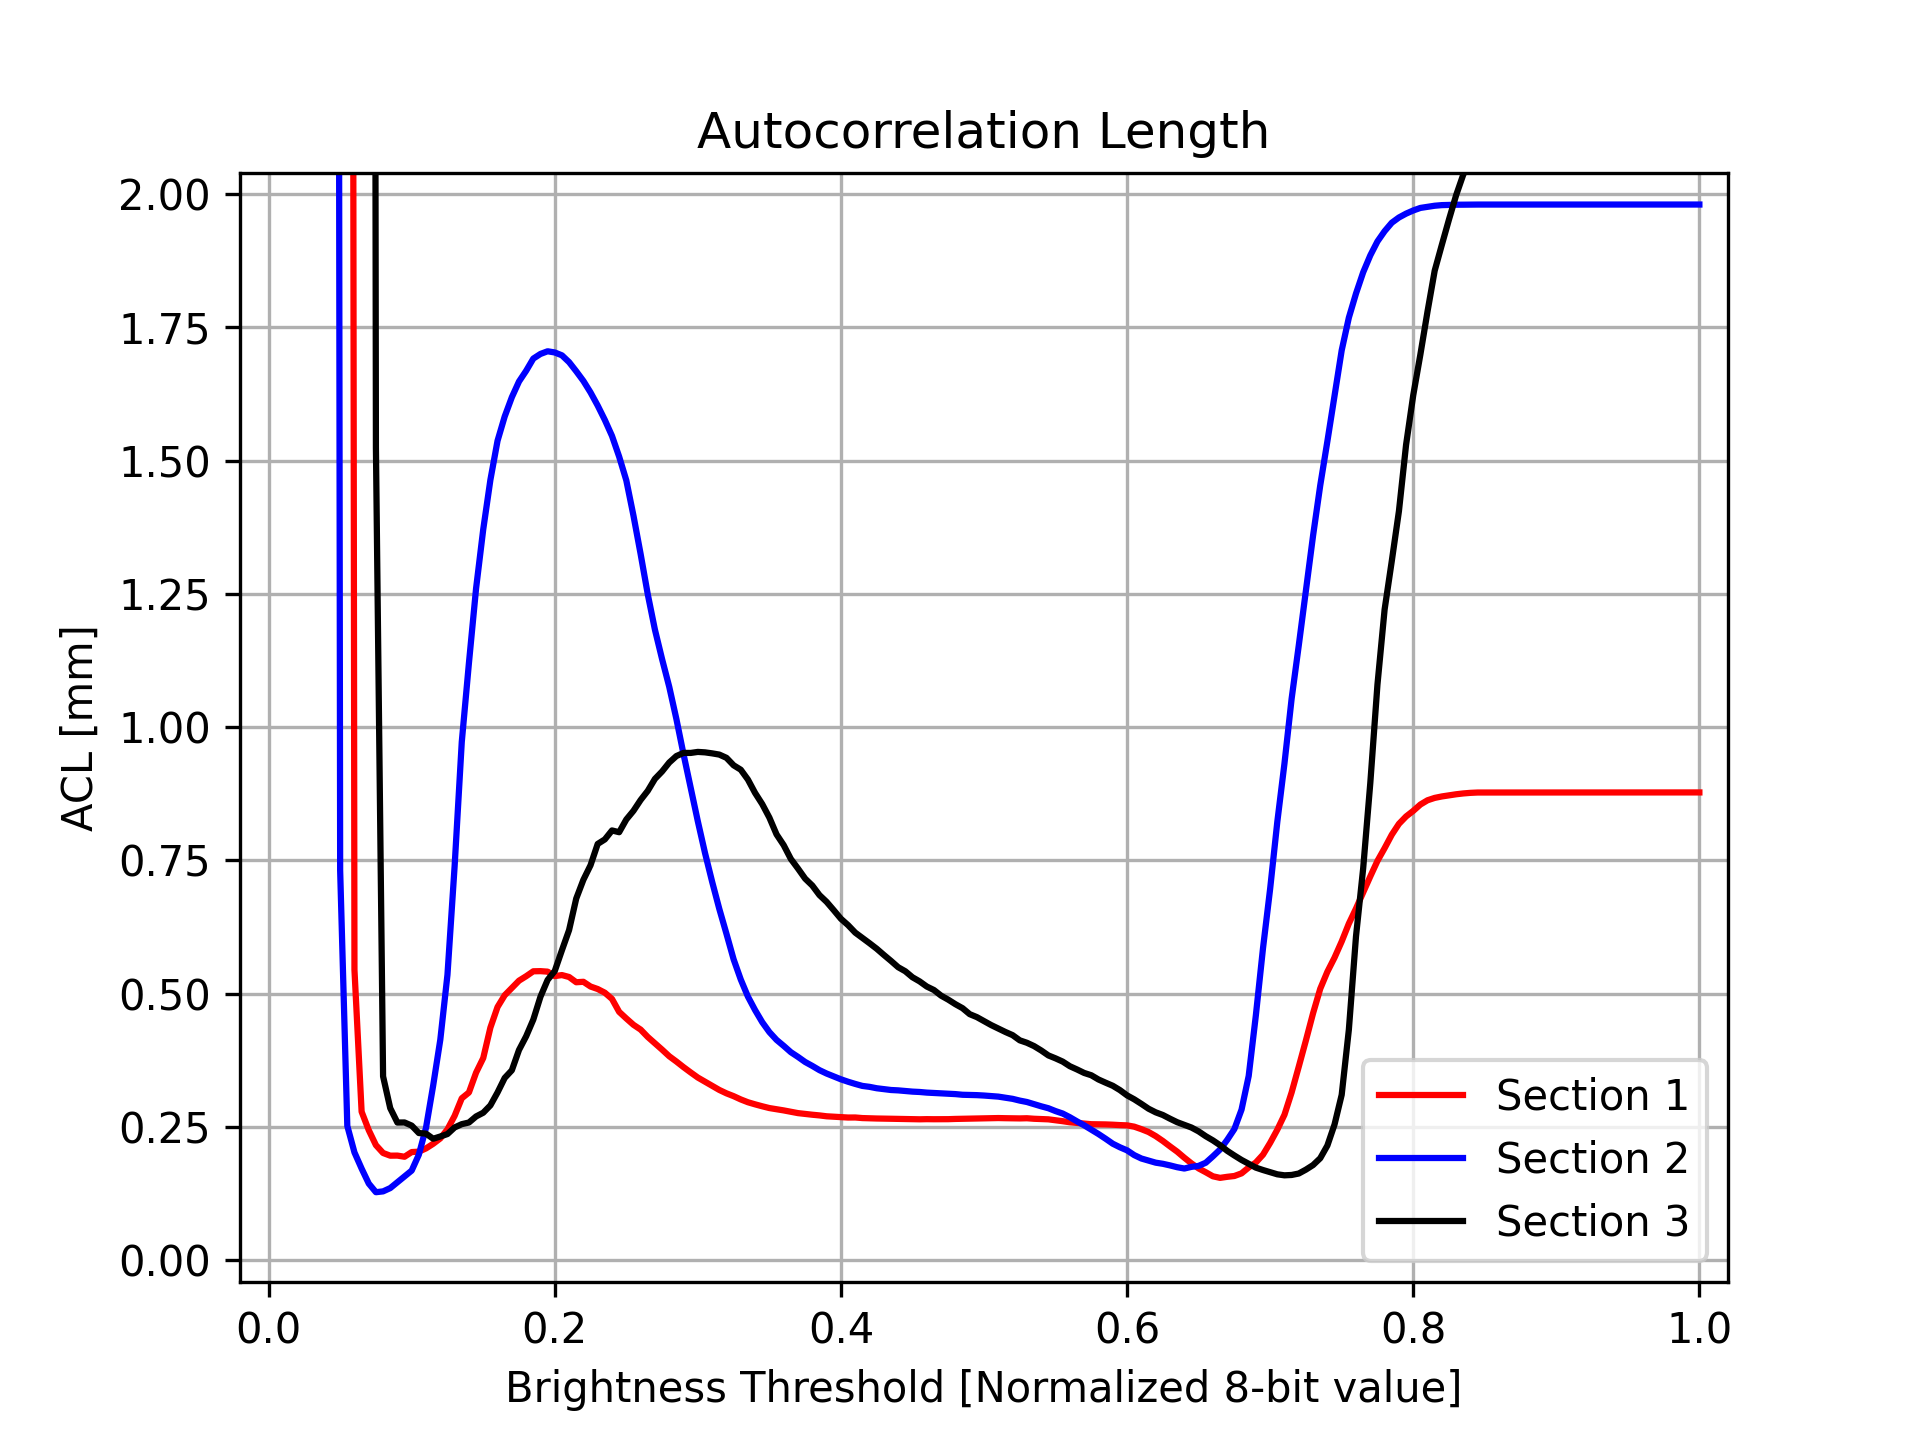
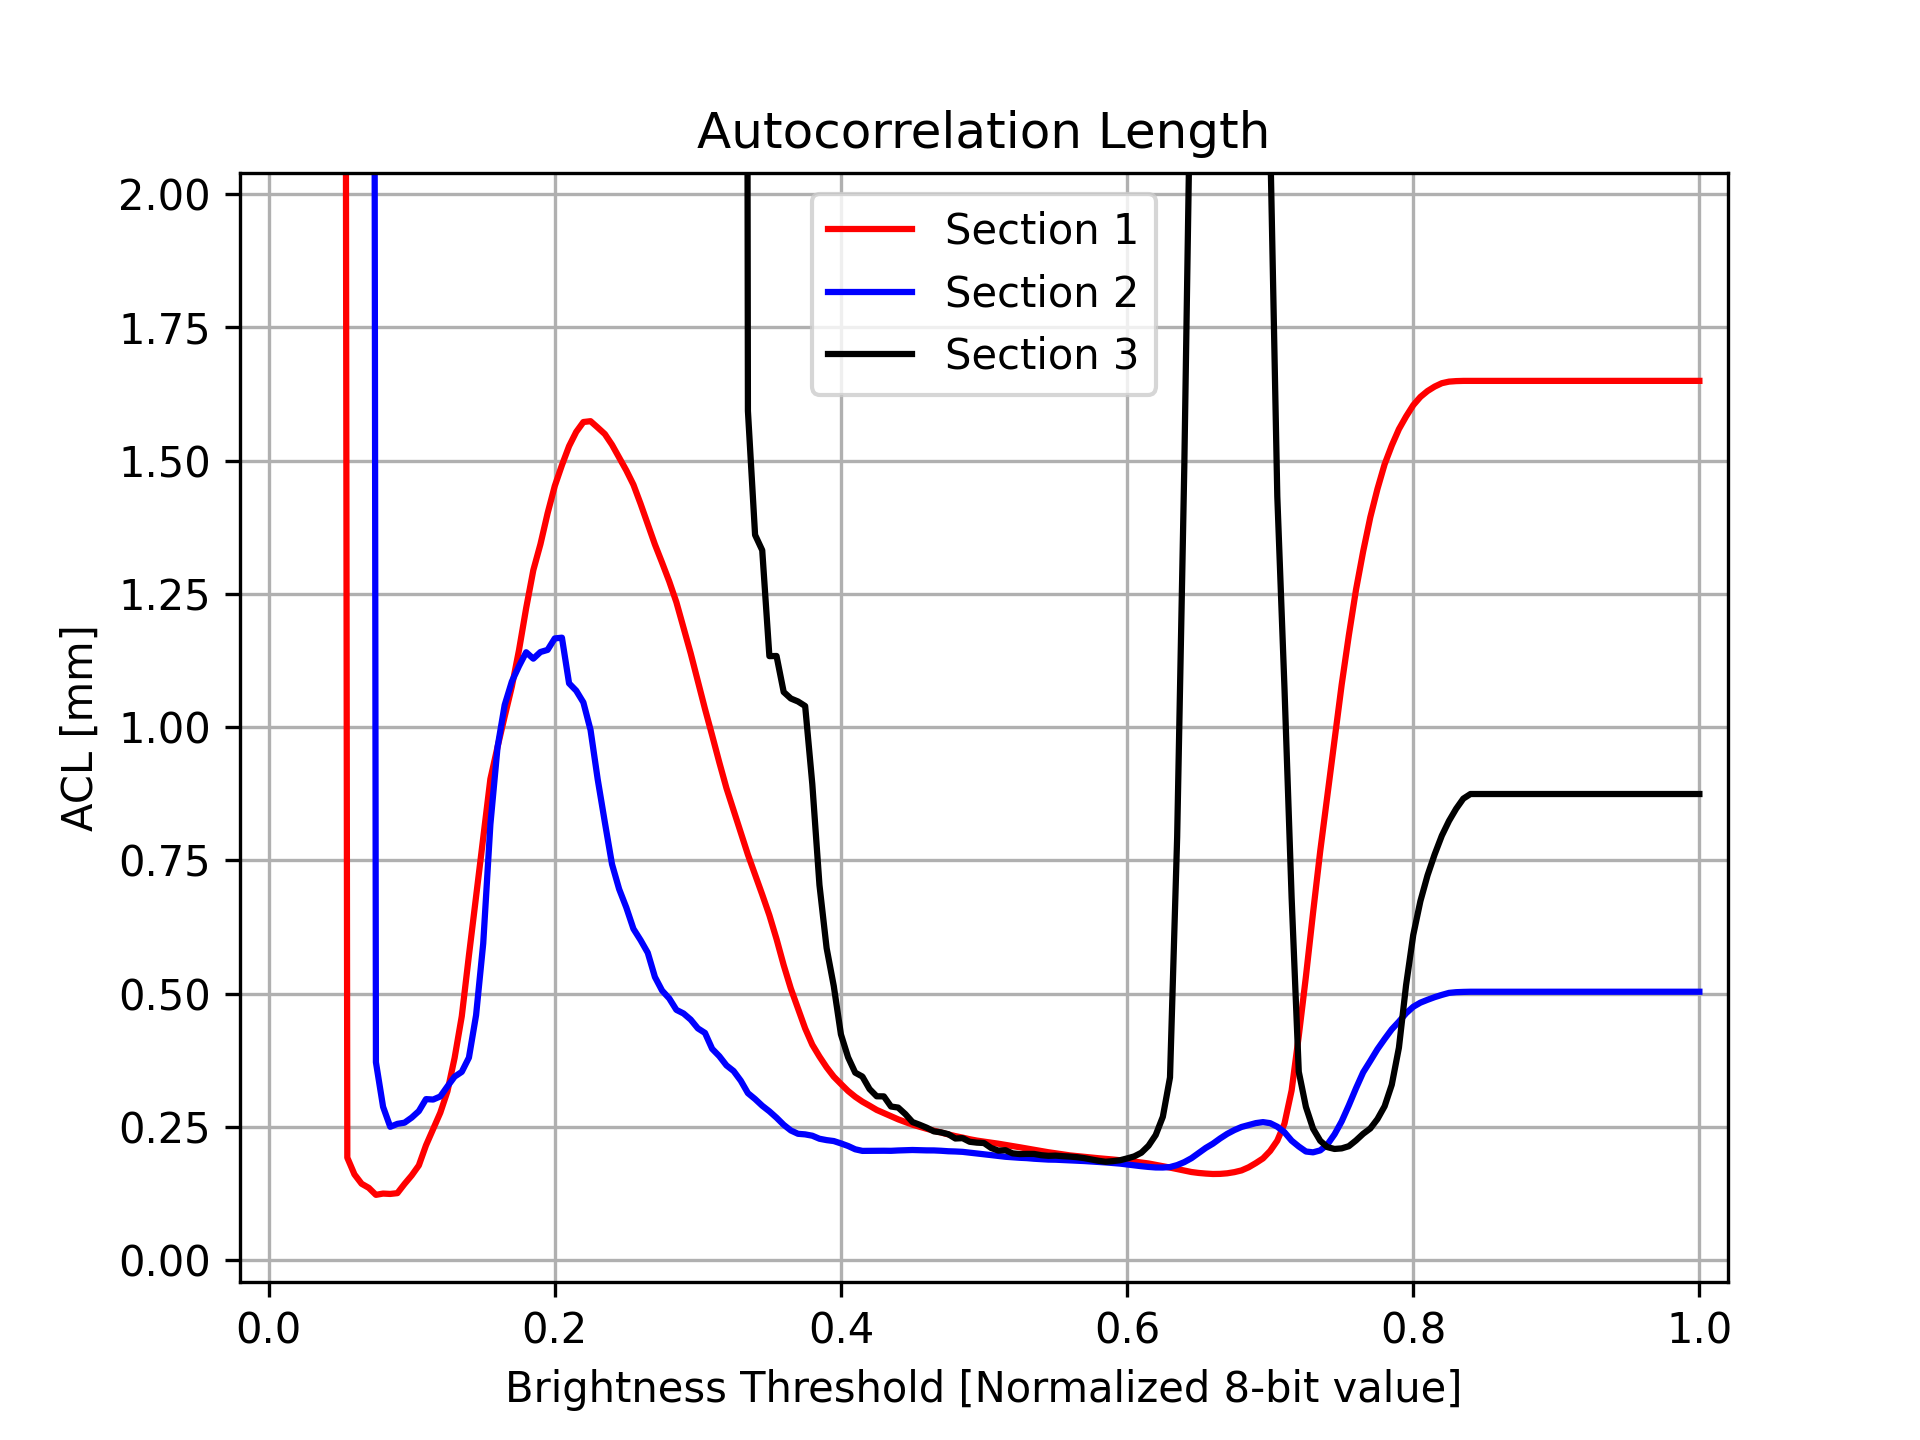
All images done!

diff --git a/plot_sigma.py b/plot_sigma.py
@@ -6,28 +6,28 @@ from clipBlur import clipBlur
 
 
 if __name__ == "__main__":
-    fname = "thin_slices/meltponds/meltpond_20200211/20200213_110428.jpg"
+    fname = "thin_slices/meltponds/meltpond_kuka/meltpond_kuka_9cm_bottom.jpg"
     fTypes = np.array(['Empirical','Exponential','Gaussian','Exp Root'])
     fit = np.array([0])
 
 
-    clip, blurredClip = clipBlur(fname,  x=1725, y=2700, marginX=1225, marginY=1100, sigma=0.25)
+    clip, blurredClip = clipBlur(fname,  x=1800, y=2150, marginX=1500, marginY=1150, sigma=0.25)
 
     plt.figure()
     plt.imshow(clip, cmap = 'gray')
     plt.show()
     plt.close()
-    threshold = 0.53
+    threshold = 0.52
 
     x = np.arange(0.1,4.05,0.05)
     s1 = np.zeros(np.size(x))
     s2 = np.zeros(np.size(x))
     s3 = np.zeros(np.size(x))
     for idx, i in enumerate(x):
-        clip, blurredClip = clipBlur(fname,  x=1725, y=2700, marginX=1225, marginY=1100, sigma=i)
+        clip, blurredClip = clipBlur(fname,  x=1800, y=2150, marginX=1500, marginY=1150, sigma=i)
         clip[blurredClip > threshold] = 0
 
-        auflength, functype, plotdata = acf(clip, lags = 200, conversion = 0.03214285714285714, plot = False, plotfunc = fit, ip=40, plotname="Testplot")
+        auflength, functype, plotdata = acf(clip, lags = 200, conversion = 0.028125, plot = False, plotfunc = fit, ip=40, plotname="Testplot")
         s1[idx] = auflength[0]
         s2[idx] = auflength[1]
         s3[idx] = auflength[2]

diff --git a/plot_threshold.py b/plot_threshold.py
@@ -6,12 +6,12 @@ from clipBlur import clipBlur
 
 
 if __name__ == "__main__":
-    fname = "thin_slices/meltponds/meltpond_20200211/20200213_110428.jpg"
+    fname = "thin_slices/meltponds/meltpond_kuka/meltpond_kuka_9cm_bottom.jpg"
     fTypes = np.array(['Empirical','Exponential','Gaussian','Exp Root'])
     fit = np.array([0])
 
 
-    clip, blurredClip = clipBlur(fname, x=1725, y=2700, marginX=1225, marginY=1100, sigma=0.25)
+    clip, blurredClip = clipBlur(fname, x=1800, y=2150, marginX=1500, marginY=1150, sigma=0.25)
 
     plt.figure()
     plt.imshow(clip, cmap = 'gray')
@@ -25,7 +25,7 @@ if __name__ == "__main__":
     for idx, i in enumerate(x):
         clip[blurredClip > i] = 0
 
-        auflength, functype, plotdata = acf(clip, lags = 200, conversion = 0.03214285714285714, plot = False, plotfunc = fit, ip=40, plotname="Testplot")
+        auflength, functype, plotdata = acf(clip, lags = 200, conversion = 0.028125, plot = False, plotfunc = fit, ip=40, plotname="Testplot")
         s1[idx] = auflength[0]
         s2[idx] = auflength[1]
         s3[idx] = auflength[2]

diff --git a/Picture_Menu.py b/Picture_Menu.py
@@ -173,6 +173,7 @@ while True:
             auflength[1], auflength[2], funcType))
     #endregion Autocorrelation
 
+    #----------------------------------------------------------
 
     elif(choice == 'Plot autocorrelation'):
         auflength, funcType, plotdata = acf(clip, lags = marginX-1, conversion = conversion, plot = False, plotfunc = fit)
